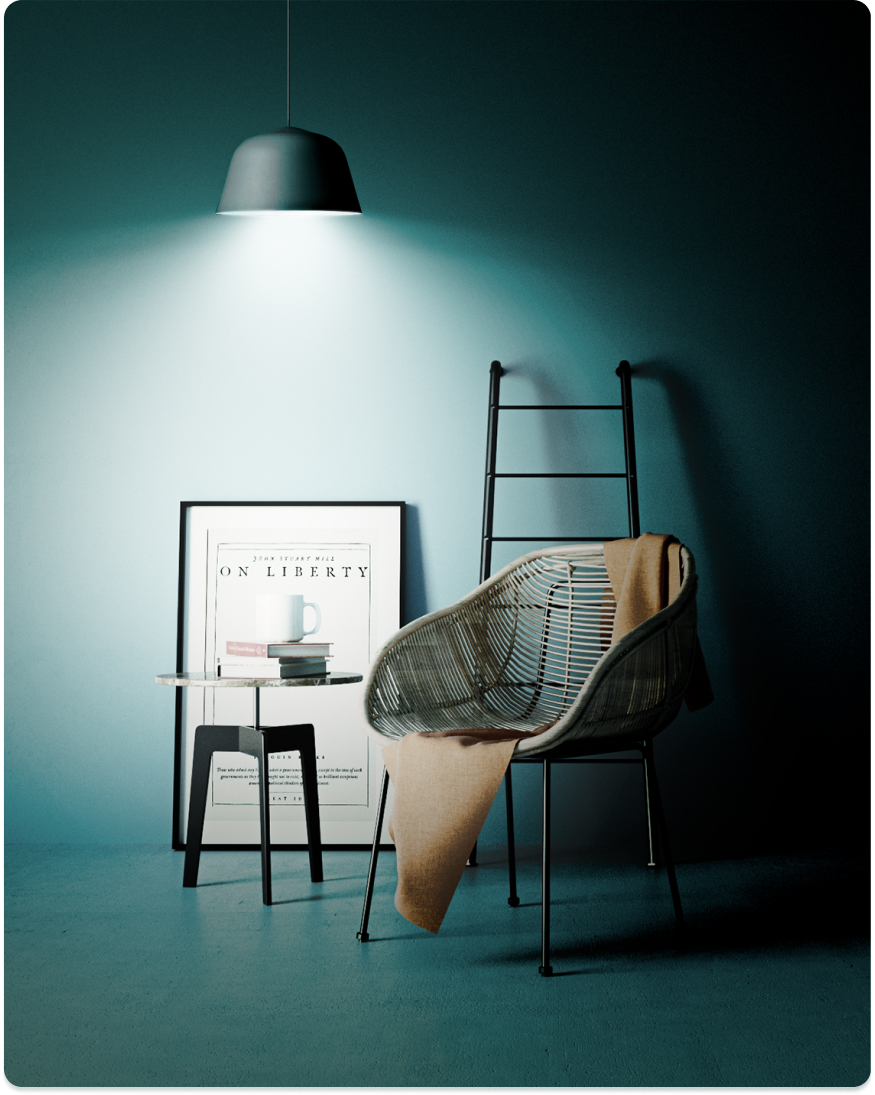
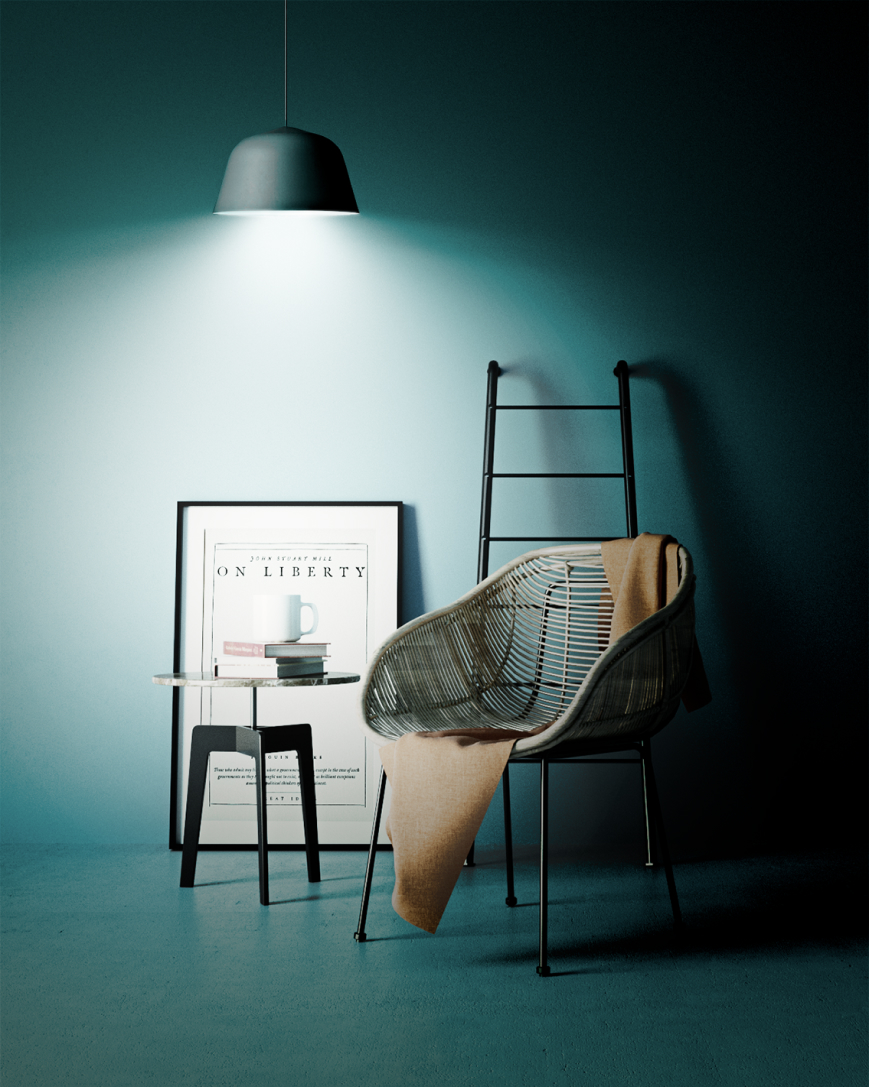
feat: spinner and active-lamp

diff --git a/src/components/LightingPage/LightingPage.jsx b/src/components/LightingPage/LightingPage.jsx
@@ -1,5 +1,6 @@
 import { useState, useEffect } from "react";
 import room from "../../images/room.jpg";
+import nidhtRoom from "../../images/night-room.jpg";
 import lamp0 from "../../images/Lamp-0.png";
 import lamp1 from "../../images/Lamp-1.png";
 import lamp2 from "../../images/Lamp-2.png";
@@ -10,18 +11,19 @@ function LightingPage() {
     const [lamps, setLapms] = useState([]);
     const [loading, setLoading] = useState(true);
     const [activeLamp, setActiveLamp] = useState(0);
+    const [isNightMode, setIsNightMode] = useState(false);
 
     useEffect(() => {
         fetch("https://private-anon-1534f9ff17-lampshop.apiary-mock.com/lamps")
             .then((response) => response.json())
             .then((data) => setLapms(data[activeLamp]));
+        // console.log(activeLamp, "activeLamp");
+        // console.log(lamps.id ? lamps.id : null, "data.id");
         setLoading(false);
     }, [activeLamp]);
 
     return (
         <div className="lightin-page">
-            {console.log(lamps ? lamps : null)}
-            {console.log(loading)}
             <div className="lightin-page__container">
                 <div className="lightin-page__wrapper">
                     <p className="lightin-page__text-description">
@@ -56,7 +58,15 @@ function LightingPage() {
                                 {lamps.electrification}
                             </p>
                         )}
-
+                        {loading ? (
+                            <Spinner />
+                        ) : (
+                            <img
+                                className="lightin-page__big-lamp big-lamp-img"
+                                src={lamps.image}
+                                alt="big-lamp"
+                            />
+                        )}
                         <div className="lightin-page__selection">
                             <div className="lightin-page__selection-shadow"></div>
 
@@ -65,31 +75,44 @@ function LightingPage() {
                                     setActiveLamp(0);
                                     setLoading(true);
                                 }}
-                                className="lightin-page__block"
+                                className={
+                                    activeLamp === 0
+                                        ? "lightin-page__block active-lamp"
+                                        : "lightin-page__block"
+                                }
                             >
                                 <img src={lamp0} alt="lamp" />
-                            </div>
-                            <div
-                                onClick={() => {
-                                    setActiveLamp(1);
-                                    setLoading(true);
-                                }}
-                                className="lightin-page__block"
-                            >
-                                <img src={lamp1} alt="lamp" />
                             </div>
                             <div
                                 onClick={() => {
                                     setActiveLamp(2);
                                     setLoading(true);
                                 }}
-                                className="lightin-page__block"
+                                className={
+                                    activeLamp === 2
+                                        ? "lightin-page__block active-lamp"
+                                        : "lightin-page__block"
+                                }
+                            >
+                                <img src={lamp1} alt="lamp" />
+                            </div>
+                            <div
+                                onClick={() => {
+                                    setActiveLamp(1);
+                                    setLoading(true);
+                                }}
+                                className={
+                                    activeLamp === 1
+                                        ? "lightin-page__block active-lamp"
+                                        : "lightin-page__block"
+                                }
                             >
                                 <img src={lamp2} alt="lamp" />
                             </div>
 
                             <div className="lightin-page__night-mode">
                                 <svg
+                                    onClick={() => setIsNightMode(false)}
                                     className="night-mode__day"
                                     width="33"
                                     height="34"
@@ -103,6 +126,7 @@ function LightingPage() {
                                     />
                                 </svg>
                                 <svg
+                                    onClick={() => setIsNightMode(true)}
                                     className="night-mode__night"
                                     width="31"
                                     height="32"
@@ -122,9 +146,18 @@ function LightingPage() {
                 <div className="lightin-page__selection-wrapper">
                     <img
                         className="lightin-page__room-img"
-                        src={room}
+                        src={isNightMode ? nidhtRoom : room}
                         alt="room"
                     ></img>
+                    {loading ? (
+                        <Spinner />
+                    ) : (
+                        <img
+                            className="big-lamp-img room-img__big-lamp-img"
+                            src={lamps.image}
+                            alt="big-lamp"
+                        />
+                    )}
                 </div>
             </div>
         </div>

diff --git a/src/components/LightingPage/LightingPage.scss b/src/components/LightingPage/LightingPage.scss
@@ -49,13 +49,13 @@
     }
     &__room-img {
         border-radius: 18px;
-        width: 100%;
-        max-width: 867px;
+        width: 867px;
         height: 1087px;
     }
     &__selection-wrapper {
         position: relative;
         z-index: 101;
+        overflow: hidden;
     }
     &__selection-shadow {
         position: absolute;
@@ -107,9 +107,6 @@
         &:not(:hover) {
             transition: 0.3s;
         }
-        &_active {
-            background: rgba(255, 255, 255, 0.5);
-        }
     }
     &__night-mode {
         width: 100%;
@@ -118,6 +115,10 @@
         align-items: center;
         margin-left: -15px;
         cursor: pointer;
+    }
+    &__big-lamp {
+        margin-top: -160px;
+        margin-left: -40px;
     }
 }
 
@@ -129,7 +130,7 @@
         padding: 20px 0;
 
         &:hover {
-            background: #f8efdd;
+            background: #ffebc2;
             transition: 0.3s;
             path {
                 transition: 0.3s;
@@ -163,5 +164,24 @@
                 transition: 0.3s;
             }
         }
+    }
+}
+.big-lamp-img {
+    height: 100%;
+    max-height: 540px;
+    width: auto;
+}
+
+.active-lamp {
+    background: rgba(255, 255, 255, 0.5);
+    pointer-events: none;
+}
+
+.room-img {
+    &__big-lamp-img {
+        position: absolute;
+        top: 0px;
+        left: 210px;
+        height: 30%;
     }
 }

diff --git a/src/components/Spinner/Spinner.css b/src/components/Spinner/Spinner.css
@@ -49,22 +49,22 @@
 }
 .lds-double-ring div {
     position: absolute;
-    width: 160px;
-    height: 160px;
-    top: 20px;
-    left: 20px;
+    width: 320px;
+    height: 320px;
+    top: 40px;
+    left: 40px;
     border-radius: 50%;
     border: 8px solid #000;
-    border-color: #3d7ec0 transparent #3d7ec0 transparent;
+    border-color: #3d9090 transparent #3d9090 transparent;
     -webkit-animation: lds-double-ring 1.5s linear infinite;
     animation: lds-double-ring 1.5s linear infinite;
 }
 .lds-double-ring div:nth-child(2) {
-    width: 140px;
-    height: 140px;
-    top: 30px;
-    left: 30px;
-    border-color: transparent #cc4545 transparent #cc4545;
+    width: 280px;
+    height: 280px;
+    top: 60px;
+    left: 60px;
+    border-color: transparent #3d5454 transparent #3d5454;
     -webkit-animation: lds-double-ring_reverse 1.5s linear infinite;
     animation: lds-double-ring_reverse 1.5s linear infinite;
 }
